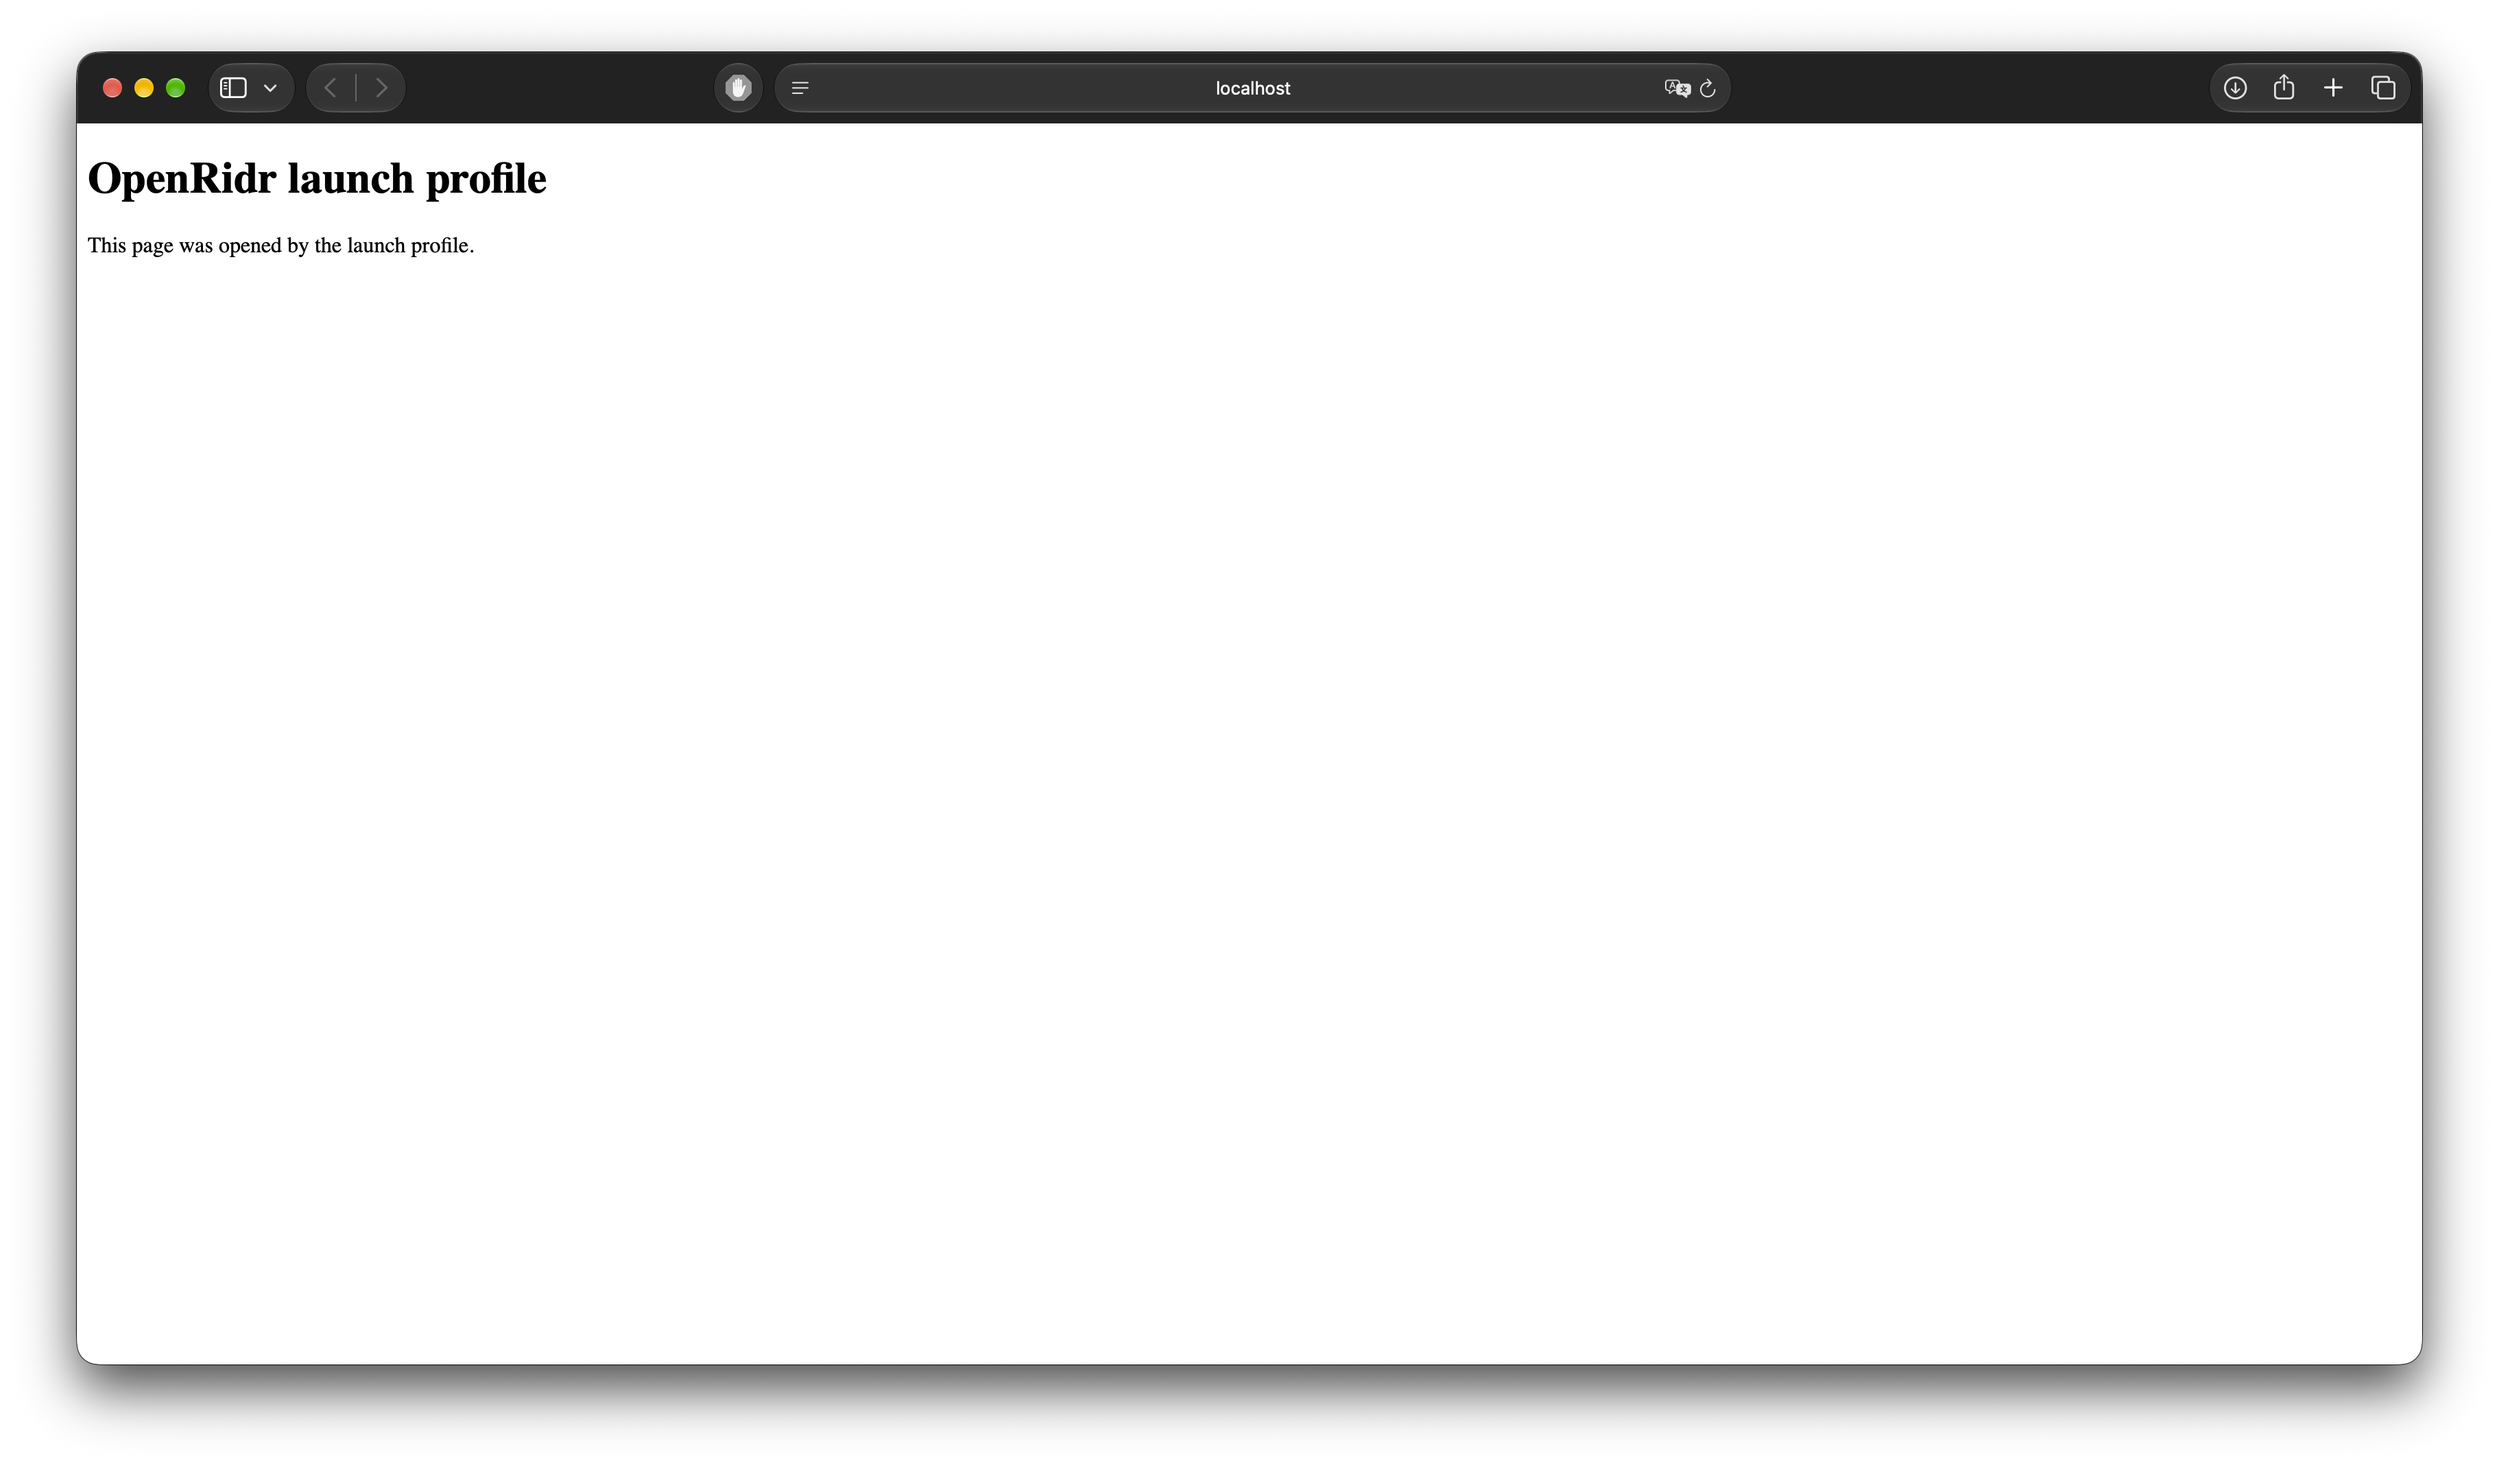
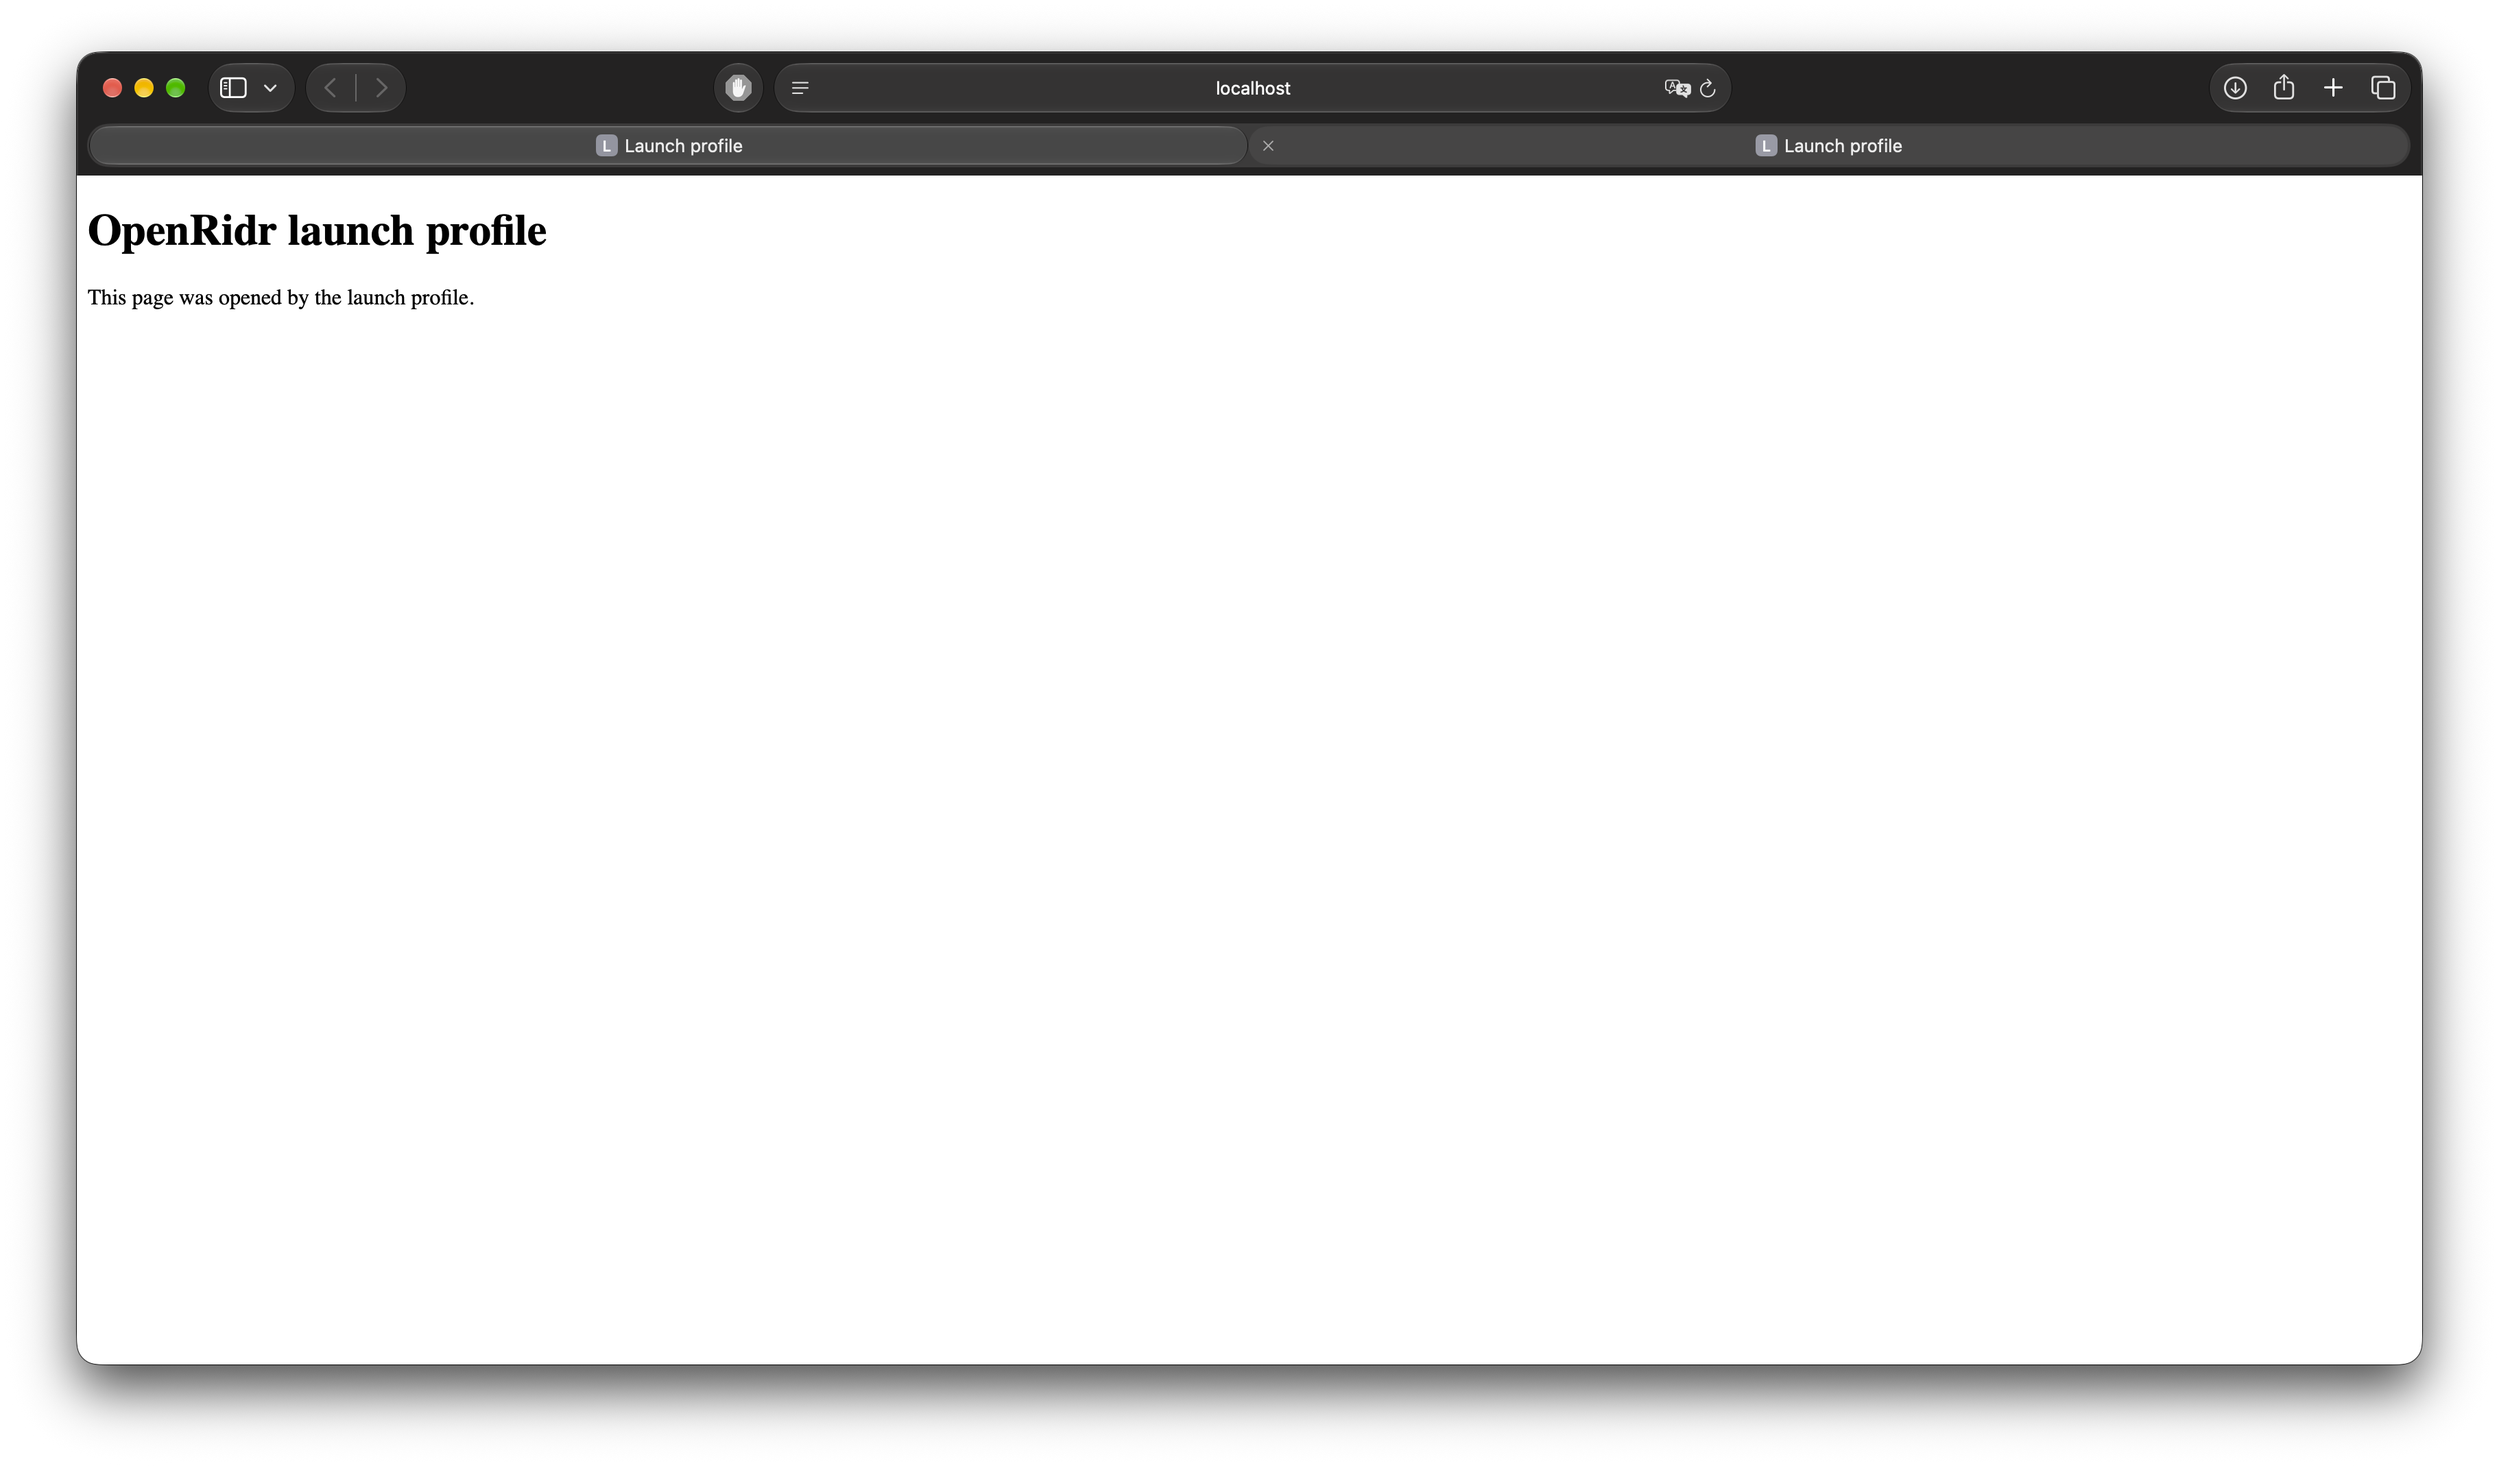
docs(evidence): capturas reconferidas no bundle final
Refs #159

Changed region(s): [[0.031, 0.0617, 0.9923, 0.2161]]

diff --git a/docs/evidence/launch-profiles-extras.md b/docs/evidence/launch-profiles-extras.md
@@ -1,9 +1,13 @@
 # Launch profiles: navegador, expansão e argv — evidência
 
 Data: 2026-11-07. macOS Apple Silicon, bundle debug `0.3.0-alpha.11` construído neste worktree
-(commit `d1f1c36`, `bun run tauri build --debug --bundles app`), `OPENRIDR_HOME` isolado em `<tmp>`,
-cópia descartável do fixture `LaunchProfiles` em `<tmp>`. Uma instância do app por vez; interação e
-capturas somente com `agent-desktop`.
+(`bun run tauri build --debug --bundles app`), `OPENRIDR_HOME` isolado em `<tmp>`, cópia descartável
+do fixture `LaunchProfiles` em `<tmp>`. Uma instância do app por vez; interação e capturas somente
+com `agent-desktop`.
+
+Capturas: `01`, `02`, `03` e `06` no bundle final (commit `b129681`, depois dos ajustes da revisão);
+`04`, `05` e `07` no bundle de `d1f1c36`, cujos caminhos os ajustes não mudam — o caso "Opened" foi
+reconferido no bundle final.
 
 ## App real
 
